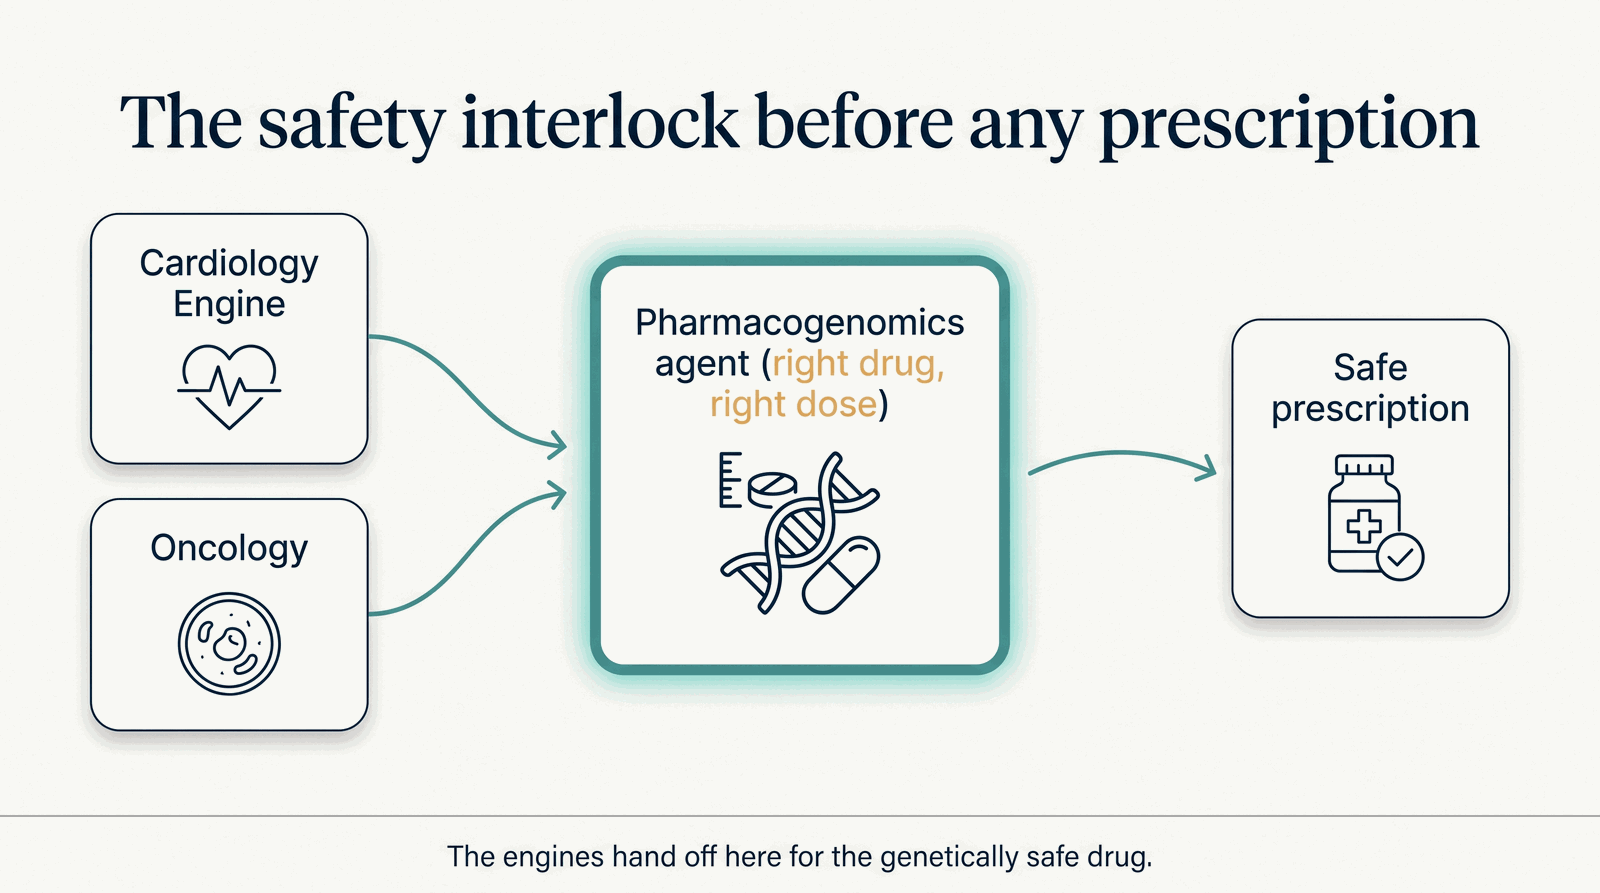
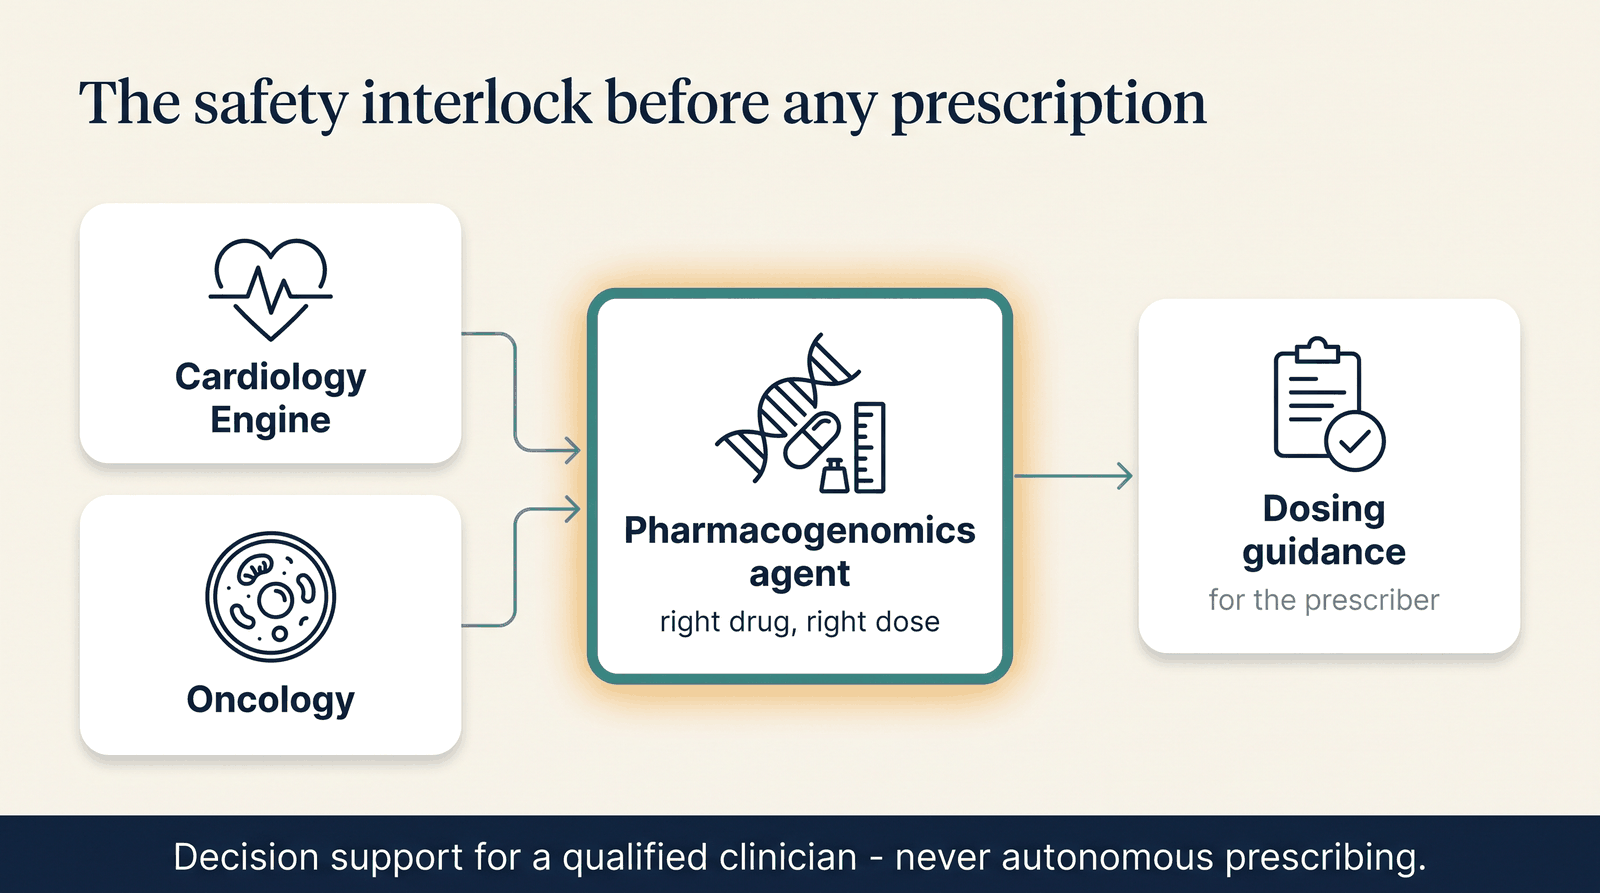
fix(site): correct the remaining page claims; rebuild five diagrams
Second pass over the published pages, after unpublishing the internal docs.

Claims corrected:
- The paper's limitations section, the demo catalogue and the structural-
  biology subject guides all asserted "torch is CPU-only" / "this box runs a
  CPU-only PyTorch build". Same bad measurement as the scorecard: a CUDA build
  exists in one service venv. Each now states the real shape — CUDA is present
  but backs a single environment, so most paths do not reach the GPU.
- The demo catalogue's headline said "6 of 17 are LIVE, 9 REPRESENTATIVE, 2
  mixed". Its own body lists 13 LIVE, 3 REPRESENTATIVE, 1 MIXED. Corrected to
  match, and it now says plainly that a LIVE label is a claim about the demo,
  not a promise the box is up — pointing at `run_demo.py --check-all`, which
  on a cold box reports the lower, honest number.
- Seven agent registry descriptions were one-line stubs; rewritten from each
  agent's own enums (verified counts, not estimates).
- The Clinical Imaging registry entry now leads with the live-verified
  modality rather than the planned CT path.

Diagrams rebuilt:
- factory-architecture: the disease-program band was a large empty box — the
  tallest band carrying the least information, on a top-three page. It now
  shows the five organ systems around the child. Took three attempts: the
  generator first put an arbitrary amber highlight on one organ, then on a
  platform pill, then invented a sixth organ labelled "Hartens". Naming the
[…]

diff --git a/scripts/gen_subject_guides.py b/scripts/gen_subject_guides.py
@@ -61,7 +61,7 @@ CONTEXT = {
  "structural-biology": dict(
    lay="Works with the three-dimensional shape of proteins — searching, scoring and designing against them.",
    clinical="A drug has to physically fit its target. Knowing the shape, atom by atom, is what makes rational design possible.",
-   limit="ESMFold prediction and ProteinMPNN design need CUDA; this box runs a CPU-only PyTorch build. Structures shown are deposited PDB entries, not predictions made live.",
+   limit="ESMFold prediction and ProteinMPNN design need CUDA, and these services are not currently served from the venv that has it, so structures shown are deposited PDB entries rather than predictions made live. The engine as a whole is registered `planned`: no process binds its aggregate port, and the model-level capabilities are the reachable surface.",
    concept="Protein function follows shape. Cryo-electron microscopy and related methods let us see that shape and deposit it publicly in the Protein Data Bank."),
  "single-cell": dict(
    lay="Takes a sample of thousands of individual cells and works out how many distinct cell types are present.",

diff --git a/docs/demos/DEMO_CATALOG.md b/docs/demos/DEMO_CATALOG.md
@@ -12,10 +12,20 @@ actually seeing.
 | **REPRESENTATIVE** | A pre-computed or curated result standing in for a long or gated step — said out loud |
 | **BURST** | Running live, but on remote GPUs over the private mesh — say "elastic burst", never "all on one box" |
 
-**Current reality:** `torch` is CPU-only and the BioNeMo NIMs, Parabricks and Chai-1 are not
-installed. So **6 of 17 are LIVE today**, 9 are REPRESENTATIVE until the gated install lands, and
-2 are mixed. That distribution is the honest one; it improves the moment
-`GATED_SOFTWARE_BUILD_GUIDE.md` is executed.
+**Current distribution:** **13 LIVE · 3 REPRESENTATIVE · 1 MIXED.** The three representative ones
+(E1, E3, E7) wait on gated software — Parabricks, the BioNeMo NIMs, and a CUDA-served ESMFold —
+and flip to LIVE when it lands.
+
+**A LIVE label is a claim about the demo, not a promise the box is up.** Every LIVE demo needs the
+platform running, Milvus seeded, and `ANTHROPIC_API_KEY` set. Ask the runner rather than trusting
+this page:
+
+```bash
+.venv/bin/python scripts/run_demo.py --check-all
+```
+
+It refuses to run a demo labelled LIVE whose service is unreachable rather than returning a canned
+result — so the honest count on a cold box is lower than the count above, and it says so.
 
 Every demo states **decision support, not diagnosis** the first time clinical output appears.
 
@@ -118,7 +128,8 @@ decides whether the statin will work. Three engines, one patient — that sequen
 pockets a molecule must fit.
 
 *What actually runs:* protein search and re-ranking, developability scoring (34 tests).
-*What does not:* ESMFold prediction and ProteinMPNN design — both need CUDA, and `torch` is CPU-only.
+*What does not:* ESMFold prediction and ProteinMPNN design — both need CUDA, which the environment
+serving them does not have.
 Structures shown are **deposited PDB entries**, not predictions made in the room.
 
 > The engine capability `structural-biology-engine:8581` is `planned` — nothing binds that port.

diff --git a/docs/subjects/e7-structural-biology/DEMO.md b/docs/subjects/e7-structural-biology/DEMO.md
@@ -25,7 +25,7 @@ A drug has to physically fit its target. Knowing the shape, atom by atom, is wha
 
 > **Decision support for a qualified clinician — never autonomous diagnosis or prescribing.** Every output on this page is intended to inform a clinician's judgement, not replace it.
 
-**ESMFold prediction and ProteinMPNN design need CUDA; this box runs a CPU-only PyTorch build. Structures shown are deposited PDB entries, not predictions made live.**
+**ESMFold prediction and ProteinMPNN design need CUDA, and these services are not currently served from the venv that has it, so structures shown are deposited PDB entries rather than predictions made live. The engine as a whole is registered `planned`: no process binds its aggregate port, and the model-level capabilities are the reachable surface.**
 
 The label matters. **LIVE** means it ran, now, on real input, in front of the room. **REPRESENTATIVE**
 means a pre-computed or curated result is standing in for a long or gated step — and you say so.

diff --git a/docs/paper/index.md b/docs/paper/index.md
@@ -267,9 +267,10 @@ memory and 34% of 20 cores. The machine is not the constraint at this stage of t
 
 ## 7. Limitations
 
-- **Accelerated inference is not currently enabled.** The installed tensor runtime is a CPU-only
-  build, so model paths that depend on the GPU are degraded or unavailable pending credentialed
-  software.
+- **Accelerated inference is enabled in one environment, not across the platform.** A CUDA build
+  of the tensor runtime is installed and reports the integrated GPU correctly, but it backs a
+  single service environment; the platform interpreter and the remaining services carry a
+  CPU-only build, so most model paths do not reach the GPU today.
 - **Accelerated secondary analysis requires a licensed container.** Genomics demonstrations
   currently serve pre-computed results and are labelled accordingly.
 - **One generation backend of two is deployed.** The open cheminformatics generation path is live;

diff --git a/docs/subjects/e7-structural-biology/ADVANCED.md b/docs/subjects/e7-structural-biology/ADVANCED.md
@@ -76,7 +76,7 @@ Two traps the shared harness handles, which a hand-rolled `pytest` invocation wi
 
 ## Operational notes
 
-ESMFold prediction and ProteinMPNN design need CUDA; this box runs a CPU-only PyTorch build. Structures shown are deposited PDB entries, not predictions made live.
+ESMFold prediction and ProteinMPNN design need CUDA, and these services are not currently served from the venv that has it, so structures shown are deposited PDB entries rather than predictions made live. The engine as a whole is registered `planned`: no process binds its aggregate port, and the model-level capabilities are the reachable surface.
 
 Before changing a port, read [`../../build/PORT_MAP.md`](https://github.com/ajones1923/hcls-ai-factory/blob/main/docs/build/PORT_MAP.md). The convention is
 enforced by `scripts/validate_registry.py`, which also cross-checks `health-monitor.sh` — a port

diff --git a/docs/subjects/e7-structural-biology/FOUNDATION.md b/docs/subjects/e7-structural-biology/FOUNDATION.md
@@ -17,7 +17,7 @@ A drug has to physically fit its target. Knowing the shape, atom by atom, is wha
 
 ## What it cannot do
 
-ESMFold prediction and ProteinMPNN design need CUDA; this box runs a CPU-only PyTorch build. Structures shown are deposited PDB entries, not predictions made live.
+ESMFold prediction and ProteinMPNN design need CUDA, and these services are not currently served from the venv that has it, so structures shown are deposited PDB entries rather than predictions made live. The engine as a whole is registered `planned`: no process binds its aggregate port, and the model-level capabilities are the reachable surface.
 
 Stating the limit is not a disclaimer bolted on the end — it is how you tell a tool that helps from
 a tool that misleads.

diff --git a/docs/subjects/e7-structural-biology/OVERVIEW.md b/docs/subjects/e7-structural-biology/OVERVIEW.md
@@ -19,7 +19,7 @@ A drug has to physically fit its target. Knowing the shape, atom by atom, is wha
 
 ## Honest limit
 
-ESMFold prediction and ProteinMPNN design need CUDA; this box runs a CPU-only PyTorch build. Structures shown are deposited PDB entries, not predictions made live.
+ESMFold prediction and ProteinMPNN design need CUDA, and these services are not currently served from the venv that has it, so structures shown are deposited PDB entries rather than predictions made live. The engine as a whole is registered `planned`: no process binds its aggregate port, and the model-level capabilities are the reachable surface.
 
 ## Endpoints
 

diff --git a/docs/README.md b/docs/README.md
@@ -54,7 +54,7 @@ Two axes, deliberately distinct — see the reconciliation note in the catalogue
 
 - [**Portfolio D1–D7**](demos/index.md) — patient-story demonstrations; the coverage contract
 - [**Catalogue E1–E8 / A1–A8 / P1**](demos/DEMO_CATALOG.md) — one per subject
-- [Demo PRD](demos/PRD.md) · [Demo Build Guide](demos/BUILD_GUIDE.md)
+- [Demo PRD](https://github.com/ajones1923/hcls-ai-factory/blob/main/docs/demos/PRD.md) · [Demo Build Guide](https://github.com/ajones1923/hcls-ai-factory/blob/main/docs/demos/BUILD_GUIDE.md)
 
 ```bash
 .venv/bin/python scripts/run_demo.py --check-all   # what is ready

diff --git a/docs/demos/BUILD_GUIDE.md b/docs/demos/BUILD_GUIDE.md
@@ -1,6 +1,6 @@
 # Build Guide — the 17 Demonstrations
 
-Companion to [`DEMO_CATALOG.md`](DEMO_CATALOG.md) (specs) and [`PRD.md`](PRD.md) (requirements).
+Companion to [`DEMO_CATALOG.md`](DEMO_CATALOG.md) (specs) and [`PRD.md`](https://github.com/ajones1923/hcls-ai-factory/blob/main/docs/demos/PRD.md) (requirements).
 Keys are **E1–E8 / A1–A8 / P1** — not D1–D7, which is the patient-story portfolio.
 
 ---

diff --git a/docs/demos/PRD.md b/docs/demos/PRD.md
@@ -1,7 +1,7 @@
 # PRD — The 17 Demonstrations
 
 **Date:** 2026-08-15 · **Companion:** [`DEMO_CATALOG.md`](DEMO_CATALOG.md) (the specs) ·
-[`BUILD_GUIDE.md`](BUILD_GUIDE.md) (how to build and test them)
+[`BUILD_GUIDE.md`](https://github.com/ajones1923/hcls-ai-factory/blob/main/docs/demos/BUILD_GUIDE.md) (how to build and test them)
 
 ---
 
